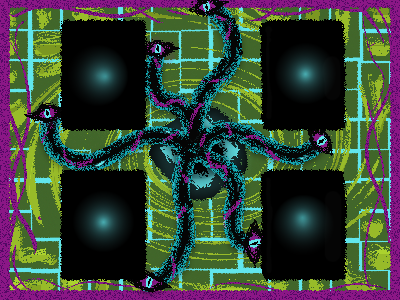
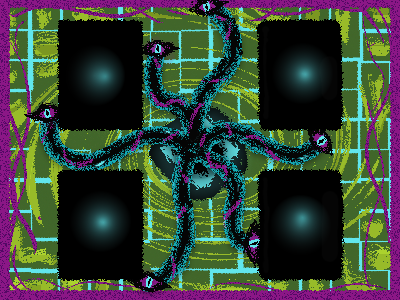
ajout des derniers ou je l'espere graphiques

diff --git a/src/Ouistiti/DisplayJeu.java b/src/Ouistiti/DisplayJeu.java
@@ -18,6 +18,7 @@ public class DisplayJeu extends JPanel {
     private Image imgCarteFaceDown;
     private Image imgCarteNull;
     private Image imgZoneJoueur;
+    private Image imgBackground;
     private String imgCarteActive = "pigez une carte";
     boolean bPigerEnCours = false;
 
@@ -60,8 +61,9 @@ public class DisplayJeu extends JPanel {
         }
 
         try {
+            imgBackground = ImageIO.read(new File("res/fond_du_jeu.png"));
             imgCarte = ImageIO.read(new File("res/carte.png"));
-            imgCarteFaceDown = ImageIO.read(new File("res/icon.png"));
+            imgCarteFaceDown = ImageIO.read(new File("res/carte_verso.png"));
             imgCarteNull = ImageIO.read(new File("res/null.png"));
             imgZoneJoueur = ImageIO.read(new File("res/zoneJoueur.png"));
         } catch (IOException e) {
@@ -107,7 +109,7 @@ public class DisplayJeu extends JPanel {
     protected void paintComponent(Graphics g) {
         super.paintComponent(g);
         g.setColor(Color.RED);
-
+        g.drawImage(imgBackground, 0,0,Main.ISCREEN_WIDTH,Main.ISCREEN_HEIGHT,null);
 
 
         g.drawString(imgCarteActive, rZonePaquet.posx(), rZonePaquet.posy());
